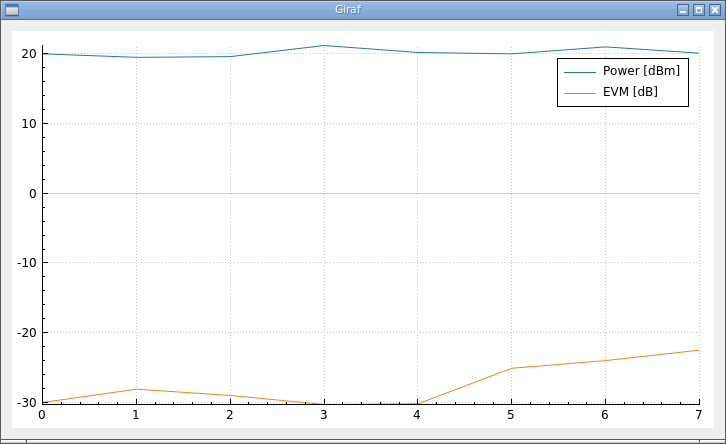
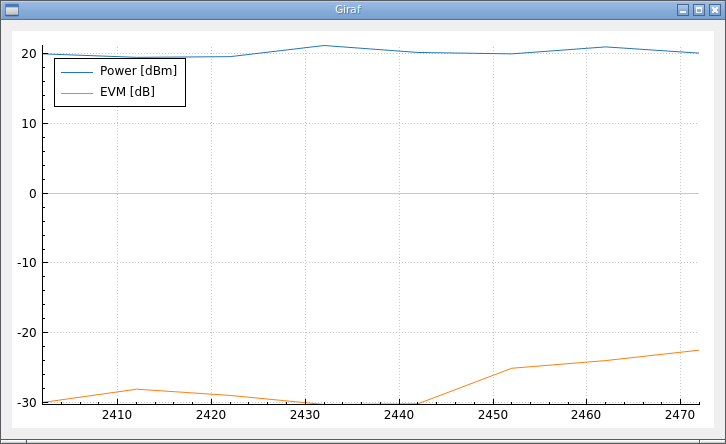
Added reset option when pressing <Space>.

diff --git a/mainwindow.cpp b/mainwindow.cpp
@@ -11,6 +11,19 @@ MainWindow::~MainWindow()
     delete ui;
 }
 
+void MainWindow::reset()
+{
+    bool ok;
+    foreach (DataVector *column, columns) {
+        column->x.clear();
+        column->y.clear();
+    }
+    inputfile.close();
+    row_counter = 0;
+    loadCsvFile(inputfile.fileName(), &ok);
+    updateGraph();
+}
+
 void MainWindow::loadCsvFile(QString filename, bool *ok)
 {
     // Open a file for reading (non-blocking)
@@ -30,6 +43,11 @@ void MainWindow::setNumberOfRowsToSkip(int num_rows)
 void MainWindow::setHeaderRow(int row_number)
 {
     headerrow = row_number;
+}
+
+void MainWindow::setXAxisColumn(int column_number)
+{
+    x_axis_column = column_number;
 }
 
 void MainWindow::setDelimiter(QString this_delimiter)
@@ -98,12 +116,12 @@ void MainWindow::updateGraph()
 void MainWindow::start()
 {
     initializeTimer();
+    new QShortcut(QKeySequence(Qt::Key_Space), this, SLOT(reset()));
 }
 
 void MainWindow::on_timeout()
 {
-    static int row_counter = 0;
-    static uint64_t t = 0;
+    static double x = 0;
     static double y = 0;
 
     // Read a line from the input file
@@ -128,12 +146,24 @@ void MainWindow::on_timeout()
             ui->plot->graph(i)->setName(label);
         }
         ui->plot->legend->setVisible(true);
+        ui->plot->axisRect()->insetLayout()->setInsetAlignment(0, Qt::AlignLeft|Qt::AlignTop);
         return;
     }
 
     // Skip a specified number of rows
     if (row_counter-1 < skiprows)
         return;
+
+    // Extract x value
+    if (x_axis_column > row.length()-1) {
+        qWarning() << "X column" << x_axis_column << "not found in row:" << line;
+    }
+    else {
+        bool ok;
+        x = row[x_axis_column].toDouble(&ok);
+        if (!ok)
+            qWarning() << "Could not understand CSV line: " << line;
+    }
 
     // Add columns to the plot
     for (int i = 0; i < columns.length(); i++) {
@@ -155,12 +185,13 @@ void MainWindow::on_timeout()
         }
 
         // Add point to plot
-        column->x.append(t);
+        column->x.append(x);
         column->y.append(y);
         updateGraph();
     }
 
-    t += 1;
+    if (x_axis_column < 0)
+        x += 1;
 }
 
 void MainWindow::initializeTimer()

diff --git a/main.cpp b/main.cpp
@@ -11,10 +11,11 @@ static void initialize_arguments(QCommandLineParser *parser)
     parser->addVersionOption();
 
     parser->addPositionalArgument("file", QCoreApplication::translate("main", "CSV file to open."));
-    parser->addOption(QCommandLineOption({"c", "column"}, "column to plot (indexed from 0)", "0"));
+    parser->addOption(QCommandLineOption({"c", "column"}, "column to plot (indexed from 0)", " "));
     parser->addOption(QCommandLineOption({"s", "skiprows"}, "number of rows to skip before data", "0"));
-    parser->addOption(QCommandLineOption({"l", "legendrow"}, "row containing the column names for the legend (indexed from 0)", "0"));
-    parser->addOption(QCommandLineOption({"d", "delimiter"}, "column delimiter (defaults to comma)", "0"));
+    parser->addOption(QCommandLineOption({"l", "legendrow"}, "row containing the column names for the legend (indexed from 0)", "-1"));
+    parser->addOption(QCommandLineOption({"d", "delimiter"}, "column delimiter", ","));
+    parser->addOption(QCommandLineOption({"x", "xcolumn"}, "column to use as x-axis (indexed from 0)", "-1"));
 }
 
 static void apply_arguments(QCommandLineParser *parser, MainWindow *w, bool *ok)
@@ -39,6 +40,10 @@ static void apply_arguments(QCommandLineParser *parser, MainWindow *w, bool *ok)
     // -d|--delimiter
     if (parser->isSet("delimiter"))
         w->setDelimiter(parser->value("delimiter"));
+
+    // -x|--xcolumn
+    if (parser->isSet("xcolumn"))
+        w->setXAxisColumn(parser->value("xcolumn").toInt());
 }
 
 int main(int argc, char *argv[])

diff --git a/mainwindow.h b/mainwindow.h
@@ -23,12 +23,14 @@ public:
     void loadCsvFile(QString filename, bool *ok);
     void setNumberOfRowsToSkip(int num_rows);
     void setHeaderRow(int row_number);
+    void setXAxisColumn(int column_number);
     void setDelimiter(QString this_delimiter);
     void addColumn(int c);
     void updateGraph();
     void start();
 
 private slots:
+    void reset();
     void on_timeout();
 
 private:
@@ -38,11 +40,13 @@ private:
     QString delimiter = ",";
     int skiprows = 0;
     int headerrow = -1;
+    int x_axis_column = -1;
 
     // File and data
     QFile inputfile;
     QTextStream *inputfileTextStream;
     QList<DataVector *> columns;
+    int row_counter = 0;
 
     void initializeTimer();
 };

diff --git a/README.md b/README.md
@@ -14,9 +14,9 @@ It's aim is to provide a simple command line interface for opening a graph where
     2462,21.0,-24.0
     2472,20.1,-22.5
 
-where the first row contains labels, and the two last rows contain measurement data, the following command is executed:
+where the first row contains labels, the first column contains x-axis data, and the two last rows contain measurement data, the following command is executed:
 
-    giraf -l0 -c1 -c2 test.csv
+    giraf -l0 -x0 -c1 -c2 test.csv
 
 The resulting graph is then
 
@@ -27,6 +27,8 @@ and when new lines are appended to `test.csv`, the graph will update as well.
 The specific command line options are seen by executing
 
     giraf -h
+
+The file is reloaded when the `<Space>` is pressed.
 
 Being able to visualize CSV data in real-time is very useful, for example, when doing automated measurements where the data is appended to a CSV file continuously. Being able to see the data makes any erroneous measurements easy to spot.
 
